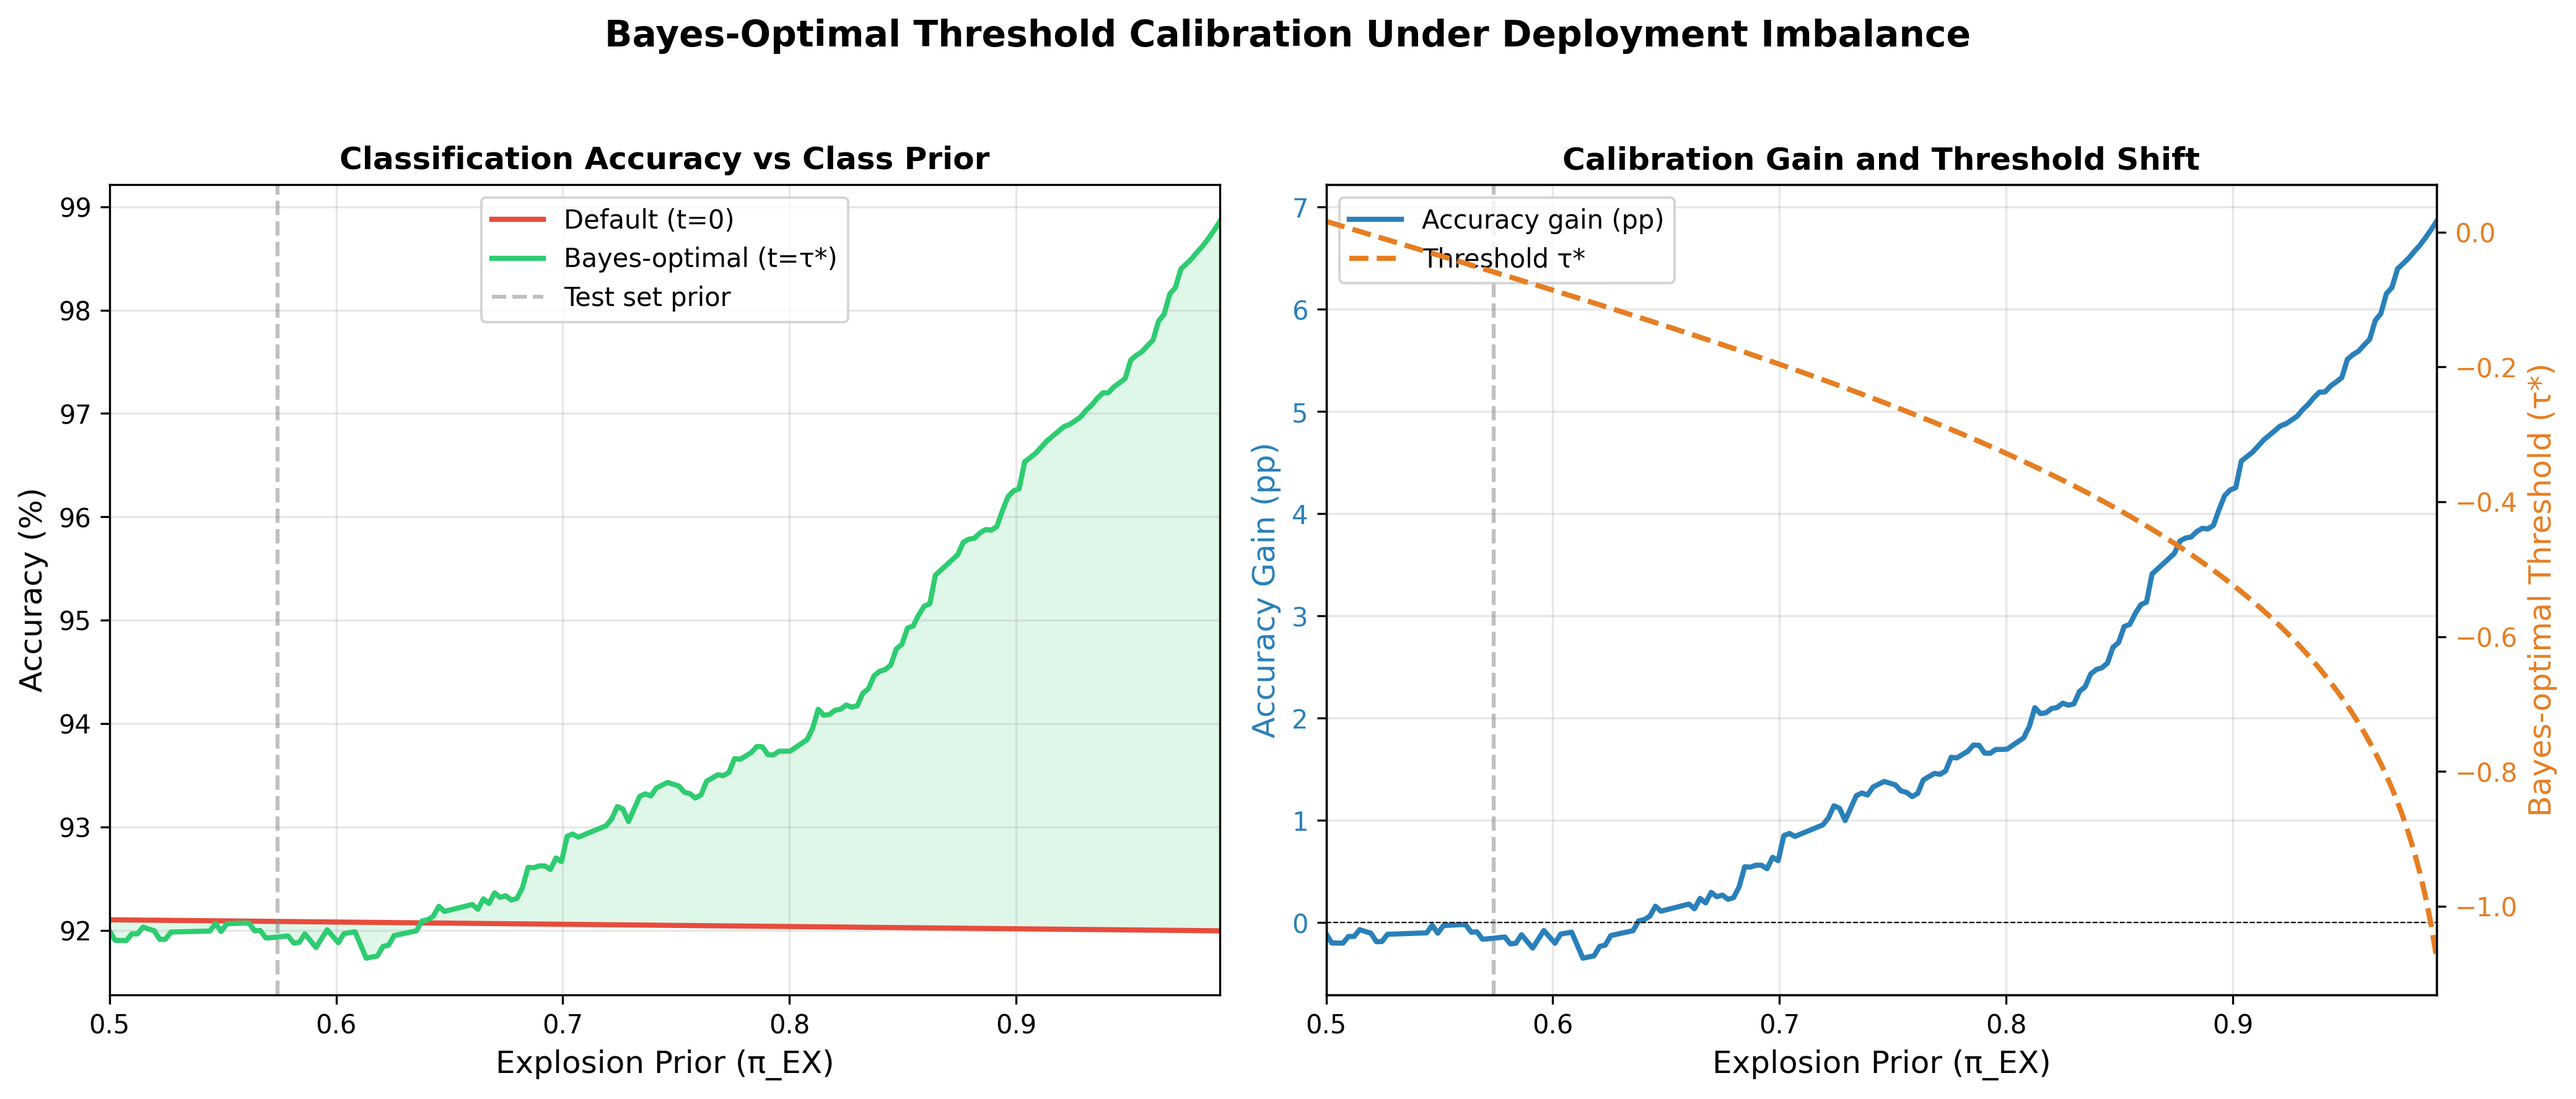
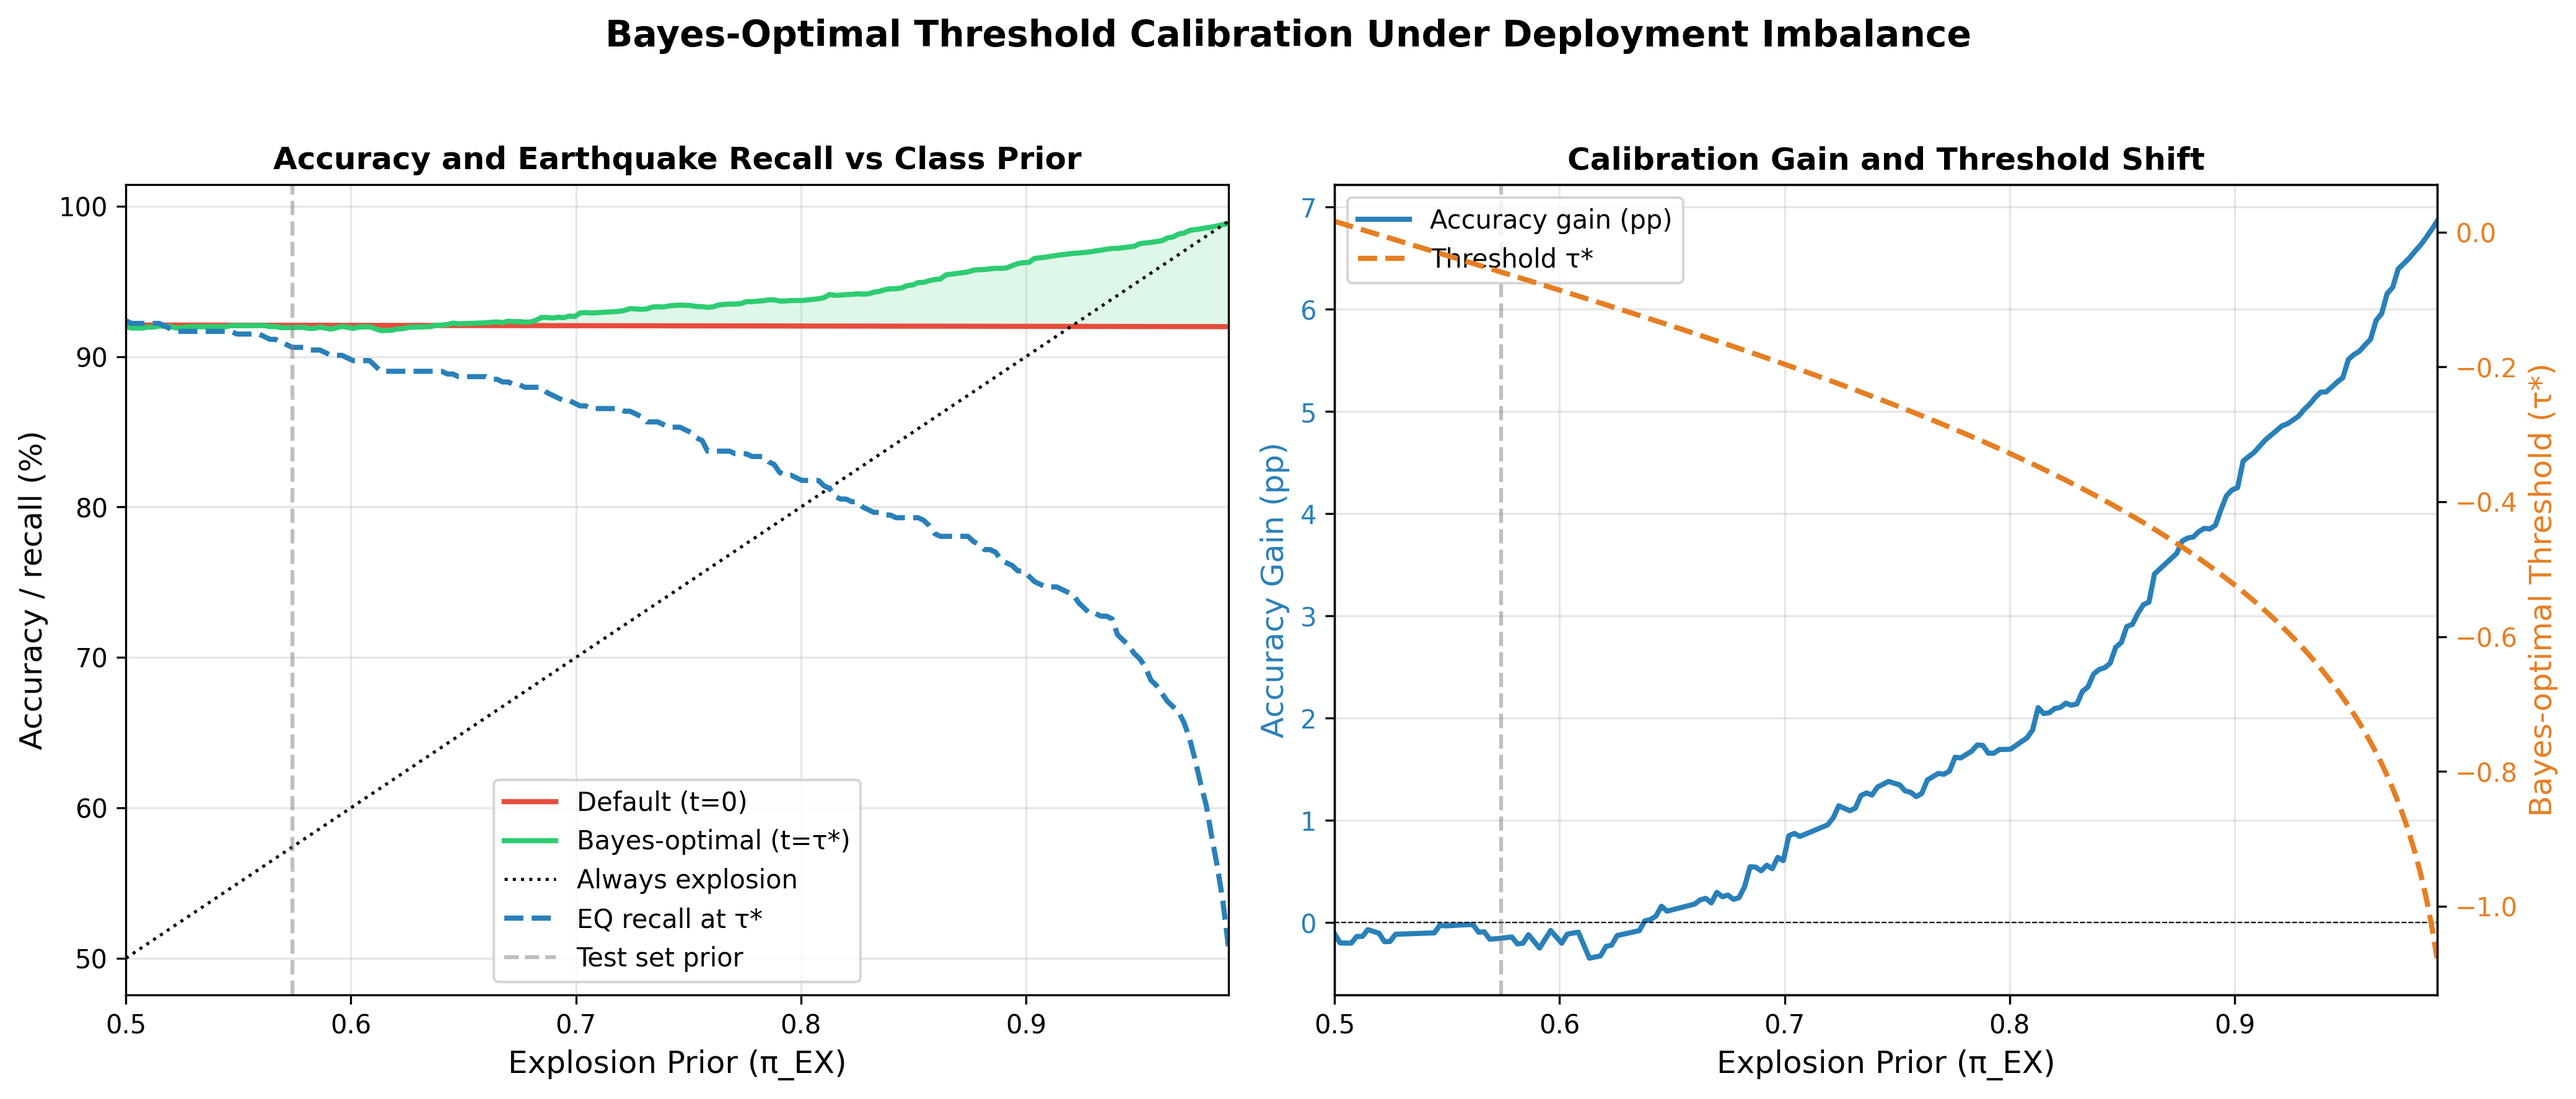
Report per-class recall and target-recall thresholds in calibration study
The accuracy-optimal threshold under heavy explosion priors trades
earthquake recall for explosion recall, so prior-weighted accuracy alone
overstates the benefit (at P(EX) = 0.99 it falls below the constant
"always explosion" rule). The script now also saves, for each simulated
prior, the earthquake and explosion recall at t = 0 and at tau*, and the
accuracy of the constant rule. It also derives, from the same validation
Gaussians, the threshold that holds a target earthquake recall
(Neyman-Pearson; 90/95/99%) and reports the resulting test recalls next
to the model's prediction.

The left panel of the figure adds the "always explosion" line and the
earthquake recall at tau*. All previously reported values reproduce
exactly (seed 42).

diff --git a/src/plot_threshold_calibration.py b/src/plot_threshold_calibration.py
@@ -11,6 +11,17 @@ are calibrated on the held-out VALIDATION set, and the prior-weighted accuracy a
 each deployment prior is evaluated on the disjoint TEST set. Calibration and
 evaluation therefore never share data.
 
+Besides prior-weighted accuracy, the script reports per-class recall at each
+threshold and the accuracy of the constant "always explosion" rule, because the
+accuracy-optimal threshold under heavy explosion priors trades earthquake recall
+for explosion recall. It also derives, from the same validation Gaussians, the
+threshold that holds a target earthquake recall (a Neyman-Pearson operating
+point) and reports the explosion recall that results on the test set.
+
+The analysis assumes label shift: only the class mix changes between the
+calibration data and deployment, while the class-conditional distribution of
+the decision values stays the same.
+
 Usage: python -m src.plot_threshold_calibration
 """
 
@@ -90,10 +101,12 @@ def run_calibration_analysis(val_vals, y_val, test_vals, y_test, save_dir):
     accs_default = []
     accs_calibrated = []
     gains = []
+    recalls = []  # (EQ recall t=0, EX recall t=0, EQ recall tau*, EX recall tau*)
 
     print("  === Threshold Calibration Under Varying Priors ===\n")
-    print(f"  {'Scenario':<20} {'π_EX':>6} {'τ*':>8} {'Acc(t=0)':>9} {'Acc(τ*)':>9} {'Gain':>8}")
-    print("  " + "-" * 60)
+    print(f"  {'Scenario':<20} {'π_EX':>6} {'τ*':>8} {'Acc(t=0)':>9} {'Acc(τ*)':>9} {'Gain':>8}"
+          f" {'EQrec(τ*)':>10} {'EXrec(τ*)':>10} {'AlwaysEX':>9}")
+    print("  " + "-" * 92)
 
     for name, prior_ex in scenarios:
         prior_eq = 1.0 - prior_ex
@@ -126,8 +139,33 @@ def run_calibration_analysis(val_vals, y_val, test_vals, y_test, save_dir):
         accs_default.append(acc_0)
         accs_calibrated.append(acc_t)
         gains.append(gain_pp)
+        recalls.append((eq_correct_0, ex_correct_0, eq_correct_t, ex_correct_t))
 
-        print(f"  {name:<20} {prior_ex:>5.0%} {tau:>+8.3f} {acc_0:>8.2%} {acc_t:>9.2%} {gain_pp:>+7.2f}pp")
+        # Constant "always explosion" rule: its accuracy equals the explosion prior
+        print(f"  {name:<20} {prior_ex:>5.0%} {tau:>+8.3f} {acc_0:>8.2%} {acc_t:>9.2%} {gain_pp:>+7.2f}pp"
+              f" {eq_correct_t:>10.2%} {ex_correct_t:>10.2%} {prior_ex:>9.2%}")
+
+    # --- Neyman-Pearson operating points: hold a target earthquake recall ---
+    # tau_NP is the validation-Gaussian quantile that keeps the requested share of
+    # earthquakes below the threshold; recalls are then measured on TEST. The
+    # threshold does not depend on the class prior.
+    target_points = []
+    print("\n  === Thresholds for a Target Earthquake Recall (validation Gaussians, test recall) ===\n")
+    print(f"  {'Target EQ rec':>13} {'τ_NP':>8} {'EQrec(test)':>12} {'EXrec(test)':>12} {'EXrec(model)':>13}")
+    print("  " + "-" * 62)
+    for target in (0.90, 0.95, 0.99):
+        tau_np = norm.ppf(target, mu_eq, sigma_eq)
+        eq_rec = np.mean(test_eq_vals < tau_np)
+        ex_rec = np.mean(test_ex_vals > tau_np)
+        ex_rec_model = 1.0 - norm.cdf(tau_np, mu_ex, sigma_ex)
+        target_points.append({
+            "target_eq_recall": target,
+            "threshold": round(float(tau_np), 4),
+            "eq_recall_test": round(float(eq_rec), 4),
+            "ex_recall_test": round(float(ex_rec), 4),
+            "ex_recall_model": round(float(ex_rec_model), 4),
+        })
+        print(f"  {target:>13.0%} {tau_np:>+8.3f} {eq_rec:>12.2%} {ex_rec:>12.2%} {ex_rec_model:>13.2%}")
 
     # --- Save results as JSON ---
     results = {
@@ -143,10 +181,16 @@ def run_calibration_analysis(val_vals, y_val, test_vals, y_test, save_dir):
                 "acc_default": round(acc_0, 4),
                 "acc_calibrated": round(acc_t, 4),
                 "gain_pp": round(g, 2),
+                "eq_recall_default": round(float(r[0]), 4),
+                "ex_recall_default": round(float(r[1]), 4),
+                "eq_recall_calibrated": round(float(r[2]), 4),
+                "ex_recall_calibrated": round(float(r[3]), 4),
+                "acc_always_explosion": round(prior_ex, 4),
             }
-            for (name, prior_ex), tau, acc_0, acc_t, g
-            in zip(scenarios, thresholds, accs_default, accs_calibrated, gains)
+            for (name, prior_ex), tau, acc_0, acc_t, g, r
+            in zip(scenarios, thresholds, accs_default, accs_calibrated, gains, recalls)
         ],
+        "target_eq_recall": target_points,
     }
     json_path = os.path.join(save_dir, "threshold_calibration_results.json")
     with open(json_path, "w") as f:
@@ -162,6 +206,7 @@ def run_calibration_analysis(val_vals, y_val, test_vals, y_test, save_dir):
     acc0_sweep = []
     acct_sweep = []
     gain_sweep = []
+    eqrec_sweep = []
 
     for pe in prior_sweep:
         peq = 1.0 - pe
@@ -186,6 +231,7 @@ def run_calibration_analysis(val_vals, y_val, test_vals, y_test, save_dir):
         acc0_sweep.append(a0)
         acct_sweep.append(at)
         gain_sweep.append((at - a0) * 100)
+        eqrec_sweep.append(eqt)
 
     # Left panel: accuracy curves
     ax1.plot(prior_sweep, [a * 100 for a in acc0_sweep], color='#e74c3c',
@@ -196,10 +242,14 @@ def run_calibration_analysis(val_vals, y_val, test_vals, y_test, save_dir):
                       [a * 100 for a in acc0_sweep],
                       [a * 100 for a in acct_sweep],
                       alpha=0.15, color='#2ecc71')
+    ax1.plot(prior_sweep, [100 * pe for pe in prior_sweep], color='black',
+             linewidth=1.2, linestyle=':', label='Always explosion')
+    ax1.plot(prior_sweep, [r * 100 for r in eqrec_sweep], color='#2980b9',
+             linewidth=2, linestyle='--', label='EQ recall at τ*')
     ax1.axvline(x=0.574, color='gray', linestyle='--', alpha=0.5, label='Test set prior')
     ax1.set_xlabel('Explosion Prior (π_EX)', fontsize=12)
-    ax1.set_ylabel('Accuracy (%)', fontsize=12)
-    ax1.set_title('Classification Accuracy vs Class Prior', fontweight='bold')
+    ax1.set_ylabel('Accuracy / recall (%)', fontsize=12)
+    ax1.set_title('Accuracy and Earthquake Recall vs Class Prior', fontweight='bold')
     ax1.legend(fontsize=10)
     ax1.grid(alpha=0.3)
     ax1.set_xlim(0.5, 0.99)
